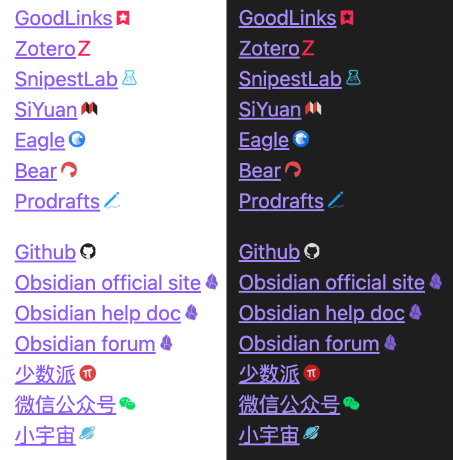
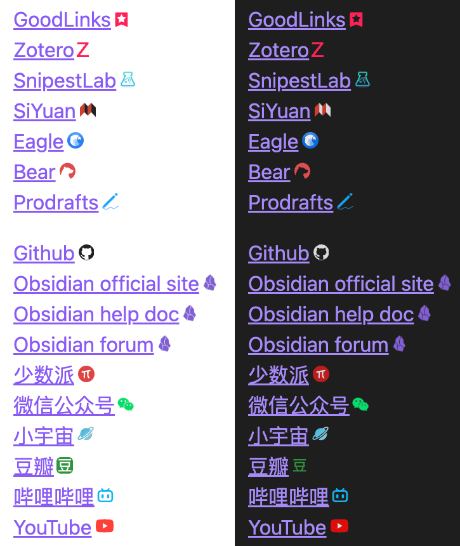
Update README

Changed region(s): [[0.0309, 0.0, 0.989, 1.0], [0.0309, 0.0, 0.3091, 0.3957]]

diff --git a/README.md b/README.md
@@ -1,5 +1,6 @@
 ## Obsidian external links icon
 A  simple plugin that auto adds icon to the external links. 
+
 ![demo.png](demo.png)
 
 ## Support links
@@ -15,9 +16,12 @@ A  simple plugin that auto adds icon to the external links.
 ### WebSite
 - Github
 - Obsidian
-- 少数派
+- 少数派 SSPai
 - 微信公众号
 - 小宇宙 FM
+- 豆瓣 Douban
+- 哔哩哔哩 BiliBili
+- YouTube
 
 ## Performance
 This plugin is designed for high performance. 
